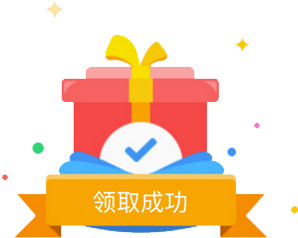
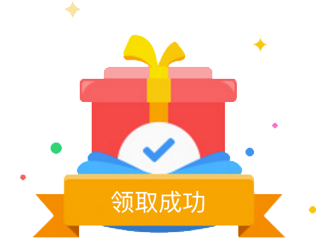
根据UI设计修改layout

diff --git a/src/pages/AboutMe.vue b/src/pages/AboutMe.vue
@@ -1,30 +1,31 @@
 <!--我的领用记录列表-->
 <template>
-  <div class="my-borrow-list">
-    <group gutter="0">
-      <cell v-for="order in list"
-            :title="order.name"
-            :inline-desc="getDateString(order)"
-            :key="order.orderId"
-            :link="getGoodDtlPath(order)"
-            class="order-item"
-            is-link>
+  <div class="my-borrow-list" ref="wrap">
+    <ul class="list-group">
+      <li class="order-item" v-for="order in list" :key="order.orderId"
+          @click="getGoodDtlPath(order)">
+        <div class="row1">
+          <div class="title">{{order.name}}</div>
+          <div class="sn" v-if="order.assetSn">资产编号：{{order.assetSn}}</div>
+        </div>
+        <div class="date">{{getDateString(order)}}</div>
         <div class="overdue-badge" v-if="order.overTime"><img src="../assets/overdue.png"></div>
-      </cell>
-    </group>
+        <i class="arrow"></i>
+      </li>
+    </ul>
 
-    <mugen-scroll :handler="fetchData" :should-handle="!loadingPage">
-      <load-more :tip="reachLastPage?'没有更多了':'正在加载'" :show-loading="false"></load-more>
+    <mugen-scroll :handler="fetchPage" :should-handle="!loadingPage" scroll-container="wrap">
+      <div class="load-more-tips">{{reachLastPage ? '没有更多了' : '正在加载'}}</div>
     </mugen-scroll>
   </div>
 </template>
 
 <script>
-  import { Group, Cell, LoadMore } from 'vux'
   import fetch from '../utils/fetch'
   import config from '../utils/config'
   import moment from 'moment'
   import MugenScroll from 'vue-mugen-scroll'
+  import router from '../router'
 
   export default {
     name: 'AboutMe',
@@ -37,30 +38,31 @@
       }
     },
     components: {
-      Group,
-      Cell,
-      LoadMore,
       MugenScroll
     },
     methods: {
       fetchPage () {
         if (!this.reachLastPage) {
+          this.loadingPage = true
           fetch({
             url: config.API_SERVER + 'getmyborrowlist?page=' + (this.currentPage || this.$route.query.page || 1) + '&pageSize=' + (this.$route.query.pageSize || 20) + '&token=' + this.$route.query.token
           }).then((result) => {
             this.list = this.list.concat(result.data.list)
-            if (this.currentPage <= (parseInt(result.data.count) + 20 - 1) / 20) {
+            this.loadingPage = false
+            let maxPage = Math.floor((parseInt(result.data.count) + 20 - 1) / 20)
+            if (this.currentPage < maxPage) {
               this.currentPage += 1
             } else {
               this.reachLastPage = true
             }
           }).catch(function (ex) {
+            this.loadingPage = false
             console.log(ex)
           })
         }
       },
       getGoodDtlPath (goodListItem) {
-        return {path: '/order-detail', query: {orderId: goodListItem.orderId, token: this.$route.query.token}}
+        router.push({path: '/order-detail', query: {orderId: goodListItem.orderId, token: this.$route.query.token}})
       },
       getDateString (item) {
         let str = ''
@@ -75,53 +77,83 @@
         }
 
         return str
-      },
-      fetchData () {
-        this.loadingPage = true
-        this.fetchPage()
-        this.loadingPage = false
       }
     }
   }
 </script>
+
 <style scoped lang="less">
   .my-borrow-list {
-    .order-item {
-      position: relative;
-      overflow: hidden;
-      .overdue-badge {
-        width: 80px;
-        height: auto;
-        position: absolute;
-        bottom: -55px;
-        right: 20px;
-        img {
-          width: 100%;
-          height: 100%;
+    height: 100%;
+    overflow-y: scroll;
+    ul.list-group {
+      list-style: none;
+      background-color: #efeff4;
+      li.order-item {
+        padding: 8px 14px;
+        background-color: #fff;
+        display: block;
+        position: relative;
+        overflow: hidden;
+        border-radius: 8px;
+        box-shadow: 1px 1px 3px rgba(0, 0, 0, .1);
+        margin: 10px 10px 0 10px;
+        .row1 {
+          &:after {
+            display: block;
+            clear: both;
+            height: 0;
+            visibility: hidden;
+            content: '.';
+          }
+          .title, .sn {
+            white-space: nowrap;
+            text-overflow: ellipsis;
+            overflow: hidden;
+            float: left;
+            width: 50%;
+          }
+          .title {
+            color: #000;
+            font-size: 18px;
+          }
+          .sn {
+            color: #888;
+            font-size: 10px;
+            line-height: 28px;
+          }
+        }
+        .date {
+          color: #888;
+          font-size: 14px;
+        }
+        .overdue-badge {
+          width: 80px;
+          height: auto;
+          position: absolute;
+          top: 8px;
+          right: 30px;
+          img {
+            width: 100%;
+            height: 100%;
+          }
+        }
+        i.arrow {
+          position: absolute;
+          right: 8px;
+          top: 26px;
+          background-image: url(../assets/arrow.png);
+          display: block;
+          width: 16px;
+          height: 16px;
         }
       }
     }
-  }
-
-  .cell-icon {
-    height: 64px;
-    width: 64px;
-    margin-right: 13px;
-    background-color: #eee;
-  }
-
-  .div-row {
-    width: 100%;
-    float: left;
-  }
-
-  .div-left {
-    width: 50%;
-    float: left;
-  }
-
-  .div-right {
-    width: 50%;
-    float: right;
+    .load-more-tips {
+      text-align: center;
+      margin: 20px;
+      color: #999;
+      font-size: 14px;
+    }
   }
 </style>

diff --git a/src/pages/GoodsDetail.vue b/src/pages/GoodsDetail.vue
@@ -58,7 +58,8 @@
       </div>
 
       <div class="get">
-        <router-link :to="{path: '/success', query: {token: this.$route.query.token, orderId: orderId}}">
+        <router-link
+          :to="{path: '/success', query: {token: this.$route.query.token, orderId: orderId, need_return: this.goodsInfo.need_return}}">
           <div class="get-btn">我知道啦</div>
         </router-link>
       </div>
@@ -127,7 +128,14 @@
               this.orderId = resp.data.orderId
               this.showModal = true
             } else {
-              router.push({path: '/success', query: {token: this.$route.query.token, orderId: resp.data.orderId}})
+              router.push({
+                path: '/success',
+                query: {
+                  token: this.$route.query.token,
+                  orderId: resp.data.orderId,
+                  need_return: this.goodsInfo.need_return
+                }
+              })
             }
           }).catch((res) => {
             console.log(res)

diff --git a/src/pages/Success.vue b/src/pages/Success.vue
@@ -6,7 +6,7 @@
     </div>
 
     <!--msg-->
-    <div class="tips" v-if="this.$route.query.need_return">要记得按时归还哦～</div>
+    <div class="tips" v-if="this.$route.query.need_return==='1'">要记得按时归还哦～</div>
 
     <div class="btns">
       <router-link :to="{path:'/order-detail',query:{token:this.$route.query.token,orderId:this.$route.query.orderId}}">
@@ -32,10 +32,21 @@
 
 <style lang="less" scoped>
   .order-success {
+    height: 100%;
+    background-color: #fff;
     text-align: center;
+    .top-img {
+      text-align: center;
+      padding-top: 20px;
+      padding-bottom: 20px;
+      img {
+        width: 60%;
+        height: auto;
+      }
+    }
     .tips {
-      font-size: 20px;
-      color: #555;
+      font-size: 16px;
+      color: #888;
     }
     .btns {
       margin: 20px 20px 0 20px;

diff --git a/src/pages/OrderDetail.vue b/src/pages/OrderDetail.vue
@@ -67,11 +67,11 @@
             value: moment(parseInt(d.shouldReturnDate) * 1000).format('YYYY-MM-DD HH:mm:ss')
           })
           this.list.push({
-            label: '领取流水',
+            label: '流水号',
             value: d.orderId
           })
           this.list.push({
-            label: '产品编号',
+            label: '资产编号',
             value: d.assetSN
           })
           this.list.push({

diff --git a/src/pages/GoodsList.vue b/src/pages/GoodsList.vue
@@ -54,6 +54,7 @@
 <style scoped lang="less">
   .good-list {
     background-color: #fff;
+    height: 100%;
     .grid-list {
       & + .grid-list {
         margin: 20px 0 0 0;
